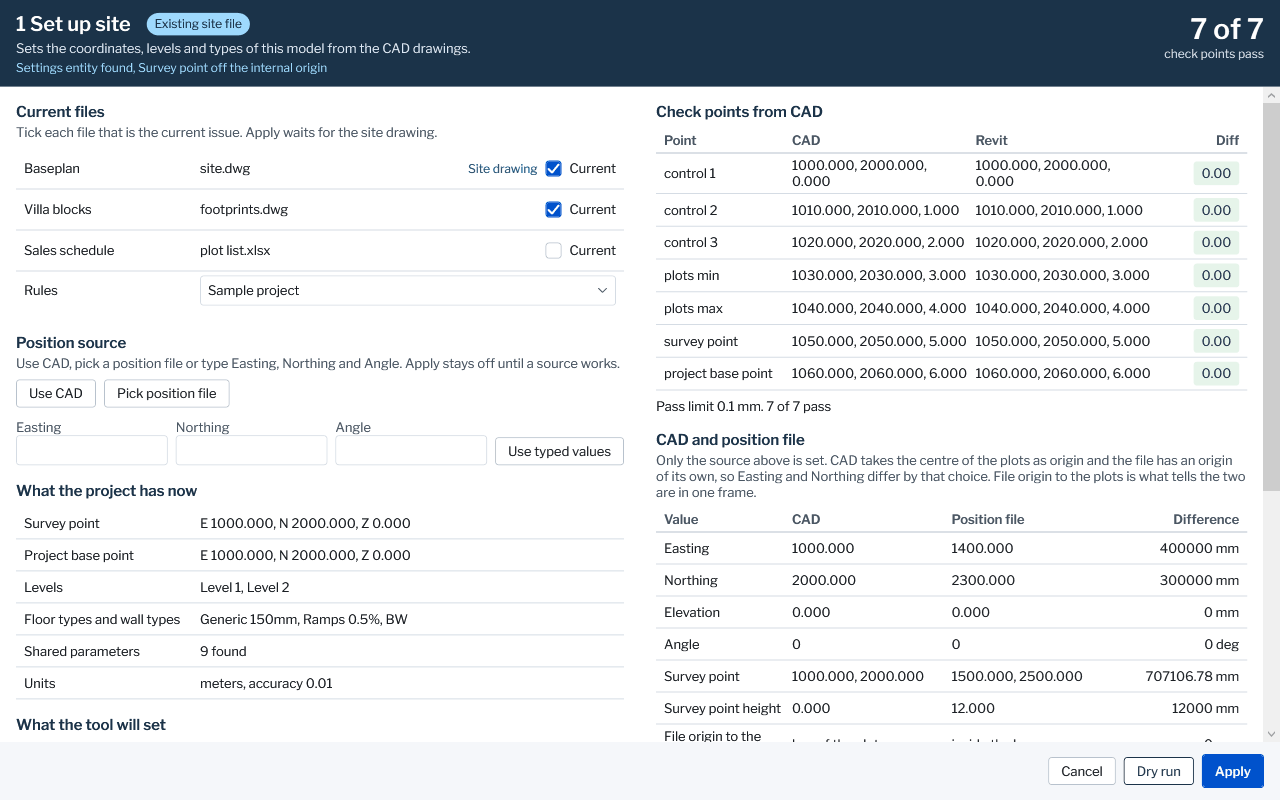
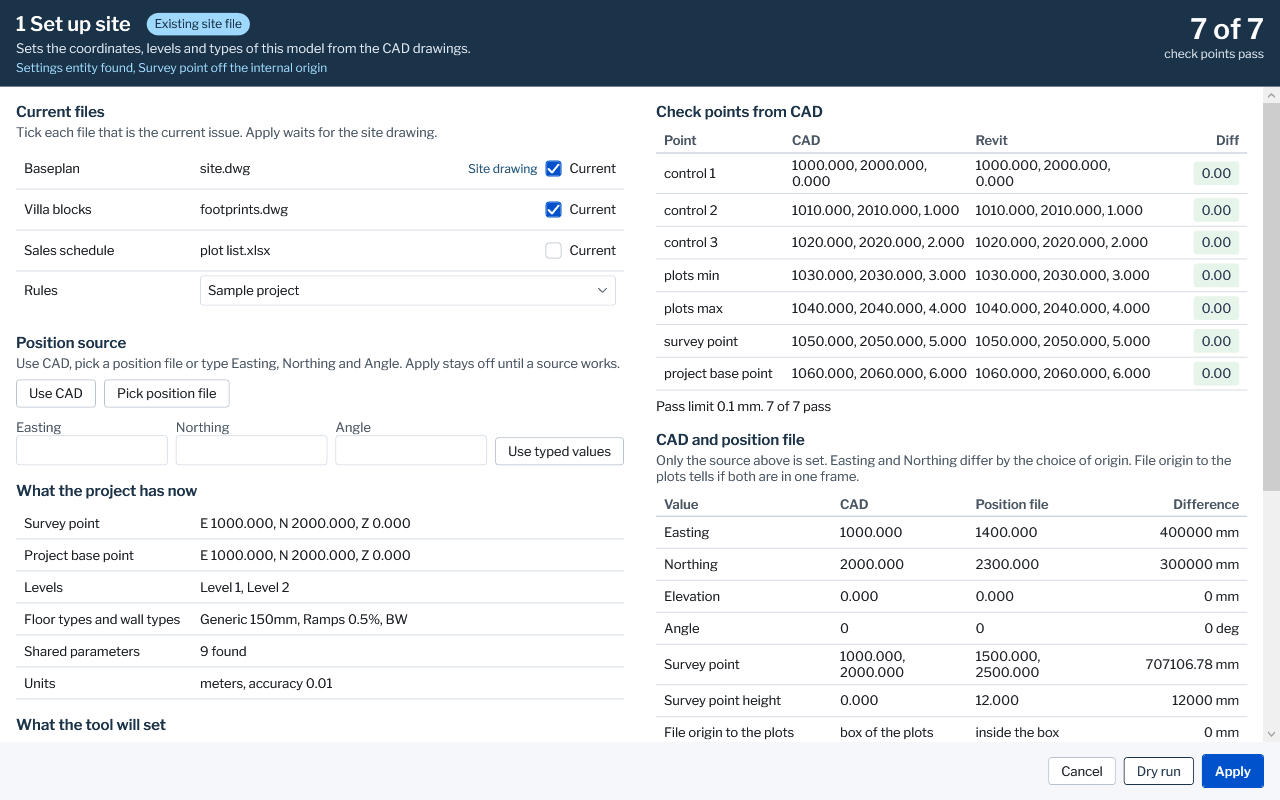
COORD-3NOV-A: help by source, last row fits, reason once, check reads the held source

Changed region(s): [[0.5, 0.5625, 0.9688, 0.9375], [0.75, 0.8125, 0.8438, 0.9375]]

diff --git a/dotnet/SiteAdaptation.AddIn/SetUpSite/SetUpSiteWindow.xaml b/dotnet/SiteAdaptation.AddIn/SetUpSite/SetUpSiteWindow.xaml
@@ -192,7 +192,7 @@
           <!-- R441, step 0 gate: the files of the setup each with a tick Current, and the Rules dropdown. Apply waits for the site drawing -->
           <StackPanel Margin="{StaticResource SA.Gap.Bottom16}" Visibility="{Binding CurrentShown, Converter={StaticResource Shown}}">
             <TextBlock Style="{StaticResource SA.Pane.Section}" Text="{x:Static set:SetUpSiteText.CurrentTitle}" />
-            <TextBlock Style="{StaticResource SA.Pane.Help}" Text="{x:Static set:SetUpSiteText.CurrentHelp}" />
+            <TextBlock Style="{StaticResource SA.Pane.Help}" Text="{Binding CurrentHelpLine}" />
             <TextBlock Style="{StaticResource SA.Pane.Help}" Foreground="{StaticResource SA.Warn}" Text="{x:Static set:SetUpSiteText.NoSiteDrawing}"
                        Visibility="{Binding NoSiteShown, Converter={StaticResource Shown}}" />
             <ItemsControl Margin="{StaticResource SA.Gap.Top8}" ItemsSource="{Binding CurrentFiles}">
@@ -304,7 +304,7 @@
             <Border Margin="{StaticResource SA.Gap.Top8}" Padding="{StaticResource SA.Pad.Cell}" BorderBrush="{StaticResource SA.BorderStrong}" BorderThickness="{StaticResource SA.Line.Under}">
               <Grid>
                 <Grid.ColumnDefinitions>
-                  <ColumnDefinition Width="{StaticResource SA.Grid.CheckPoint}" />
+                  <ColumnDefinition Width="{StaticResource SA.Grid.SetUpLabel}" />
                   <ColumnDefinition Width="*" />
                   <ColumnDefinition Width="*" />
                   <ColumnDefinition Width="{StaticResource SA.Grid.CheckPoint}" />
@@ -321,7 +321,7 @@
                   <Border MinHeight="{StaticResource SA.Size.Row}" Padding="{StaticResource SA.Pad.Cell}" BorderBrush="{StaticResource SA.Border}" BorderThickness="{StaticResource SA.Line.Under}">
                     <Grid>
                       <Grid.ColumnDefinitions>
-                        <ColumnDefinition Width="{StaticResource SA.Grid.CheckPoint}" />
+                        <ColumnDefinition Width="{StaticResource SA.Grid.SetUpLabel}" />
                         <ColumnDefinition Width="*" />
                         <ColumnDefinition Width="*" />
                         <ColumnDefinition Width="{StaticResource SA.Grid.CheckPoint}" />

diff --git a/dotnet/SiteAdaptation.Tests/R412_NewProjectCheckTests.cs b/dotnet/SiteAdaptation.Tests/R412_NewProjectCheckTests.cs
@@ -194,6 +194,35 @@ namespace SiteAdaptation.Tests
             Assert.Equal("Inputs opened: 8, none changed", text[text.Length - 2]);
         }
 
+        // R511. The source the project holds decides, not the default of a new project in config, so a past job with its position file still gets the line. The same cases in the Python
+        private CheckLine PositionOf(string source, string file = null)
+        {
+            return NewProjectCheck.Check(Path.Combine(config, "project.json"), Path.Combine(config, "rules.json"), Path.Combine(config, "prototype_offsets.json"), work, root, WorkerReads.CheckReaders(), source, file)
+                .Lines.Single(line => line.Input == "position file");
+        }
+
+        [Fact]
+        public void R511_the_new_project_check_reads_the_source_the_project_holds()
+        {
+            Build();
+            File.Delete(Path.Combine(work, "pos.json"));
+            JObject held = JObject.Parse(File.ReadAllText(Path.Combine(config, "project.json")));
+            held["coordinates"] = new JObject { ["source"] = "positionFile", ["newProjectSource"] = "cad" };
+            File.WriteAllText(Path.Combine(config, "project.json"), held.ToString());
+
+            Assert.Equal("missing", PositionOf(null).Status);
+            Assert.Equal("missing", PositionOf("positionFile").Status);
+            Assert.Equal("ok", PositionOf("cad").Status);
+            Assert.Equal("not asked, this project takes its position from CAD", PositionOf("cad").Text);
+            Assert.Equal("not asked, this project takes its position from typed values", PositionOf("typed").Text);
+
+            held["coordinates"]["source"] = "cad";
+            File.WriteAllText(Path.Combine(config, "project.json"), held.ToString());
+            Assert.Equal("ok", PositionOf(null).Status);
+            Assert.Equal("missing", PositionOf("positionFile").Status);
+            Assert.Equal("gone.json is not there", PositionOf("positionFile", Path.Combine(work, "gone.json")).Text);
+        }
+
         [Fact]
         public void R412_an_input_that_is_not_there_is_missing_and_one_that_cannot_be_read_does_not_fit()
         {
@@ -206,11 +235,6 @@ namespace SiteAdaptation.Tests
             File.Delete(Path.Combine(root, "protos", Prototype));
             Dictionary<string, CheckLine> got = Run().Lines.ToDictionary(line => line.Input);
             Assert.Equal(new[] { "missing", "pos.json is not there" }, new[] { got["position file"].Status, got["position file"].Text });
-            // R511. A new project takes its position from CAD, the same line as the Python of R412
-            JObject held = JObject.Parse(File.ReadAllText(Path.Combine(config, "project.json")));
-            held["coordinates"] = new JObject { ["newProjectSource"] = "cad" };
-            File.WriteAllText(Path.Combine(config, "project.json"), held.ToString());
-            Assert.Equal(new[] { "ok", "not asked, a new project takes its position from CAD" }, Run().Lines.Where(line => line.Input == "position file").Select(line => new[] { line.Status, line.Text }).Single());
             Assert.Equal(new[] { "does not fit", "prototype_offsets.json cannot be read as a JSON object" }, new[] { got["villa offsets"].Status, got["villa offsets"].Text });
             Assert.Equal(new[] { "does not fit", "a.xlsx cannot be read as a workbook" }, new[] { got["Excel dlus dataBook.rev9.dlus"].Status, got["Excel dlus dataBook.rev9.dlus"].Text });
             Assert.Equal(new[] { "missing", "s1.xlsx is not there" }, new[] { got["Schedule N1"].Status, got["Schedule N1"].Text });
@@ -300,8 +324,6 @@ namespace SiteAdaptation.Tests
                 }
             }
             merged["addin"]["position"]["file"] = Path.Combine(work, "pos.json");
-            // The made up project asks for its file, the test of R511 says it does not
-            ((JObject)merged["coordinates"]).Remove("newProjectSource");
             merged["addin"]["readData"]["dataBookFolder"] = Path.Combine(work, "data_book");
             merged["addin"]["workerTimeLimitS"] = JObject.Parse(File.ReadAllText(WorkerRunTests.RepoConfig()))["addin"]["workerTimeLimitS"];
             File.WriteAllText(Path.Combine(config, "project.json"), merged.ToString());

diff --git a/python/new_project_check.py b/python/new_project_check.py
@@ -138,13 +138,16 @@ def header_texts(book, sheet, count):
     return rows
 
 
-def position_line(settings, run):
+def position_line(settings, run, coordinate_source=None, position_file=None):
     name = "position file"
-    # R511. A new project takes its position from CAD and the file is only a check, so its absence is no fault
-    if get(settings, "coordinates.newProjectSource") == "cad":
-        return line(name, OK, "not asked, a new project takes its position from CAD")
+    # R511. The source the project holds, else coordinates.source of config, never the default of a new project, so a past job with its position file still gets its line
+    source = coordinate_source if coordinate_source is not None else get(settings, "coordinates.source")
+    if source == "cad":
+        return line(name, OK, "not asked, this project takes its position from CAD")
+    if source == "typed":
+        return line(name, OK, "not asked, this project takes its position from typed values")
     block = get(settings, "addin.position")
-    path = block.get("file") if isinstance(block, dict) else None
+    path = position_file if position_file is not None else (block.get("file") if isinstance(block, dict) else None)
     if not isinstance(path, str) or not path.lower().endswith(".json"):
         return line(name, DOES_NOT_FIT, "config names no .json file in addin.position.file")
     path = Path(path)
@@ -435,7 +438,7 @@ def text_of(report):
     return "\n".join(out) + "\n"
 
 
-def check(config_path, rules_path, offsets_path, work_root, input_root=None):
+def check(config_path, rules_path, offsets_path, work_root, input_root=None, coordinate_source=None, position_file=None):
     """The report of the check with the lines, the counts and the inputs opened with their marks, the paths of those inputs and the input
     root. The inputs are marked before their first read and again at the end, a change raises input_guard.InputChanged."""
     values = project_profile.read_object(config_path)
@@ -451,7 +454,7 @@ def check(config_path, rules_path, offsets_path, work_root, input_root=None):
     run.opened(rules_path)
     folder = prototype_folder(settings, root)
     work = data_book_work(settings, work_root)
-    lines = [position_line(settings, run), parameter_line(config_path, settings, rules, run), offsets_line(settings, rules, offsets_path, run),
+    lines = [position_line(settings, run, coordinate_source, position_file), parameter_line(config_path, settings, rules, run), offsets_line(settings, rules, offsets_path, run),
              hands_line(rules, folder), prototype_line(rules, folder)]
     lines += [excel_line(settings, block, run, work) for block in EXCEL_BLOCKS]
     lines += schedule_lines(settings, run, root)
@@ -497,13 +500,15 @@ def main(argv=None):
     parser.add_argument("--offsets", default=None, help="the offsets file, default prototype_offsets.json beside the config")
     parser.add_argument("--work-root", default=None, help="default is the work root of this machine (R372)")
     parser.add_argument("--out", required=True, help="the output folder, the only place written")
+    parser.add_argument("--coordinate-source", default=None, help="the site source the settings of the project hold, default coordinates.source of config (R511)")
+    parser.add_argument("--position-file", default=None, help="the position file the settings of the project hold, default addin.position.file of config (R511)")
     args = parser.parse_args(argv)
     config = Path(args.config)
     rules = Path(args.rules) if args.rules else project_profile.profile_path(project_profile.load_profile(config))
     offsets = Path(args.offsets) if args.offsets else config.parent / "prototype_offsets.json"
     root = args.work_root or project_profile.work_root()
     try:
-        report, paths, input_root = check(config, rules, offsets, root)
+        report, paths, input_root = check(config, rules, offsets, root, coordinate_source=args.coordinate_source, position_file=args.position_file)
         write(report, args.out, paths, input_root)
     except (CheckError, project_profile.ProfileError, input_guard.InputChanged) as error:
         print("new project check failed: %s" % error, file=sys.stderr)

diff --git a/dotnet/SiteAdaptation.Common/Check/NewProjectCheck.cs b/dotnet/SiteAdaptation.Common/Check/NewProjectCheck.cs
@@ -104,7 +104,8 @@ namespace SiteAdaptation.Common
         public const string Ok = "ok";
         public const string Missing = "missing";
         public const string DoesNotFit = "does not fit";
-        public const string PositionFileNotAsked = "not asked, a new project takes its position from CAD";
+        public const string PositionFromCad = "not asked, this project takes its position from CAD";
+        public const string PositionTyped = "not asked, this project takes its position from typed values";
         public const string ConfigRole = "config";
         public const string RulesRole = "rules";
         public const string OffsetsRole = "offsets";
@@ -263,15 +264,20 @@ namespace SiteAdaptation.Common
             }
         }
 
-        private static CheckLine PositionLine(JObject settings, Run run)
+        // R511. The source the project holds, else coordinates.source of config, never the default of a new project, so a past job with its position file still gets its line
+        private static CheckLine PositionLine(JObject settings, Run run, string coordinateSource, string positionFile)
         {
             const string name = "position file";
-            // R511. A new project takes its position from CAD and the file is only a check, so its absence is no fault
-            if (settings["coordinates"]?["newProjectSource"]?.Type == JTokenType.String && (string)settings["coordinates"]["newProjectSource"] == SetUp.CoordinateSettings.FromCadSource)
+            string source = coordinateSource ?? SetUp.SiteSources.OfConfig(settings);
+            if (source == SetUp.SiteSources.Cad)
             {
-                return Line(name, Ok, PositionFileNotAsked);
+                return Line(name, Ok, PositionFromCad);
             }
-            string file = Str(settings, "addin.position.file", run.WorkRoot);
+            if (source == SetUp.SiteSources.Typed)
+            {
+                return Line(name, Ok, PositionTyped);
+            }
+            string file = positionFile ?? Str(settings, "addin.position.file", run.WorkRoot);
             if (file == null || !file.ToLowerInvariant().EndsWith(".json", StringComparison.Ordinal))
             {
                 return Line(name, DoesNotFit, "config names no .json file in addin.position.file");
@@ -686,7 +692,7 @@ namespace SiteAdaptation.Common
         }
 
         // The report of the check. The inputs are marked before their first read and again at the end, a change throws
-        public static NewProjectReport Check(string configPath, string rulesPath, string offsetsPath, string workRoot, string inputRoot, NewProjectReaders readers)
+        public static NewProjectReport Check(string configPath, string rulesPath, string offsetsPath, string workRoot, string inputRoot, NewProjectReaders readers, string coordinateSource = null, string positionFile = null)
         {
             var settings = JObject.Parse(File.ReadAllText(configPath).TrimStart(''));
             JObject rules = null;
@@ -715,7 +721,7 @@ namespace SiteAdaptation.Common
             run.Opened(rulesPath);
             string folder = PrototypeFolder(settings, root);
             string work = DataBookWork(settings, workRoot);
-            var lines = new List<CheckLine> { PositionLine(settings, run), ParameterLine(configPath, settings, rules, run), OffsetsLine(settings, rules, offsetsPath, run), HandsLine(rules, folder), PrototypeLine(rules, folder) };
+            var lines = new List<CheckLine> { PositionLine(settings, run, coordinateSource, positionFile), ParameterLine(configPath, settings, rules, run), OffsetsLine(settings, rules, offsetsPath, run), HandsLine(rules, folder), PrototypeLine(rules, folder) };
             lines.AddRange(ExcelBlocks.Select(block => ExcelLine(settings, block, run, work)));
             lines.AddRange(ScheduleLines(settings, run, root));
             lines.Add(PdfLine(settings, run, work));

diff --git a/dotnet/SiteAdaptation.Tests/SetUpSiteTests.cs b/dotnet/SiteAdaptation.Tests/SetUpSiteTests.cs
@@ -45,6 +45,79 @@ namespace SiteAdaptation.Tests
             Assert.Equal(!opens, model.NoSiteShown);
         }
 
+        // The help of the section Current files says what the gate does, it waits for the site drawing only under CAD
+        [Theory]
+        [InlineData("cad", true)]
+        [InlineData(null, true)]
+        [InlineData("positionFile", false)]
+        [InlineData("typed", false)]
+        public void R513_the_help_of_current_files_names_the_site_drawing_only_while_the_gate_asks_for_it(string source, bool names)
+        {
+            SetUpSiteView view = Shots.SampleSetUpView(true, true);
+            view.PositionSource = source;
+            var model = new SetUpSiteViewModel(view);
+            Assert.StartsWith("Tick each file that is the current issue.", model.CurrentHelpLine);
+            Assert.Equal(names, model.CurrentHelpLine.Contains("site drawing"));
+        }
+
+        // The reason stands once, beside the ways out of it, and still keeps Apply off
+        [Fact]
+        public void R513_the_reason_of_no_source_shows_in_the_section_and_not_again_in_the_stops()
+        {
+            SetUpSiteView view = Shots.SampleNoSourceView();
+            var model = new SetUpSiteViewModel(view);
+            Assert.True(model.NoSourceShown);
+            Assert.False(model.StopsShown);
+            Assert.Equal("", model.StopsLine);
+            Assert.False(model.CanApply);
+
+            view.Stops.Add("Another stop");
+            model = new SetUpSiteViewModel(view);
+            Assert.Equal("Another stop", model.StopsLine);
+
+            // A conflict joins its stops into the one line, each of them already said
+            SetUpSiteView conflict = Shots.SampleSetUpView(true, true);
+            conflict.Stops = new List<string> { "First stop", "Second stop" };
+            conflict.NoSourceLine = "First stop. Second stop";
+            model = new SetUpSiteViewModel(conflict);
+            Assert.False(model.StopsShown);
+            Assert.False(model.CanApply);
+        }
+
+        // R512. setup-site.png, the last row of the section on one line and inside the part that shows
+        [Fact]
+        public void R512_the_last_row_of_cad_and_position_file_stands_on_one_line_inside_the_scroll_area()
+        {
+            OnSta(() =>
+            {
+                SetUpSiteWindow window = Shots.LaidOutSetUp(Shots.SampleSetUpView(true, true));
+                var body = (FrameworkElement)window.Content;
+                ScrollViewer scroll = Below<ScrollViewer>(body).First();
+                TextBlock row = Below<TextBlock>(body).Single(text => text.Text == SetUpTexts.FileOriginToPlots);
+                TextBlock line = Below<TextBlock>(body).First(text => text.Text == SetUpTexts.Northing);
+
+                Assert.Equal(line.ActualHeight, row.ActualHeight);
+                double bottom = row.TransformToAncestor(scroll).Transform(new Point(0, row.ActualHeight)).Y;
+                Assert.True(bottom <= scroll.ViewportHeight, bottom + " of " + scroll.ViewportHeight);
+            });
+        }
+
+        private static IEnumerable<T> Below<T>(DependencyObject parent) where T : DependencyObject
+        {
+            for (int at = 0; at < VisualTreeHelper.GetChildrenCount(parent); at++)
+            {
+                DependencyObject child = VisualTreeHelper.GetChild(parent, at);
+                if (child is T found)
+                {
+                    yield return found;
+                }
+                foreach (T deeper in Below<T>(child))
+                {
+                    yield return deeper;
+                }
+            }
+        }
+
         // Q422. The words of the window follow the source
         [Theory]
         [InlineData("cad", "from the CAD drawings", "Check points from CAD", "CAD")]

diff --git a/python/tests/test_r412_new_project_check.py b/python/tests/test_r412_new_project_check.py
@@ -121,18 +121,36 @@ def test_r412_an_input_that_is_not_there_is_missing_and_one_that_cannot_be_read_
     report = new_project_check.check(config / "project.json", config / "rules.json", config / "prototype_offsets.json", work, root)[0]
     got = {each["input"]: (each["status"], each["text"]) for each in report["lines"]}
     assert got["position file"] == ("missing", "pos.json is not there")
-    # R511. A new project takes its position from CAD, the same line as the C# of R412
-    settings = json.loads((config / "project.json").read_text(encoding="utf-8"))
-    settings["coordinates"] = {"newProjectSource": "cad"}
-    (config / "project.json").write_text(json.dumps(settings), encoding="utf-8")
-    again = new_project_check.check(config / "project.json", config / "rules.json", config / "prototype_offsets.json", work, root)[0]
-    assert {each["input"]: (each["status"], each["text"]) for each in again["lines"]}["position file"] == ("ok", "not asked, a new project takes its position from CAD")
     assert got["villa offsets"] == ("does not fit", "prototype_offsets.json cannot be read as a JSON object")
     assert got["Excel dlus dataBook.rev9.dlus"] == ("does not fit", "a.xlsx cannot be read as a workbook")
     assert got["Schedule N1"] == ("missing", "s1.xlsx is not there")
     assert got["location plan PDF"] == ("does not fit", "plan.pdf cannot be read as a PDF")
     assert got["prototype files"][1] == "the prototype folder protos holds no single file for the unit codes: C10, VL3, TH1"
     assert new_project_check.text_of(report).count("missing.") == 2
+
+
+def test_r511_the_new_project_check_reads_the_source_the_project_holds(tmp_path):
+    """The source the project holds decides, not the default of a new project in config, so a past job with its position file still gets the line. The same cases as the C#."""
+    work, root, config = build(tmp_path)
+    (work / "pos.json").unlink()
+    settings = json.loads((config / "project.json").read_text(encoding="utf-8"))
+    settings["coordinates"] = {"source": "positionFile", "newProjectSource": "cad"}
+    (config / "project.json").write_text(json.dumps(settings), encoding="utf-8")
+
+    def position_of(source, file=None):
+        report = new_project_check.check(config / "project.json", config / "rules.json", config / "prototype_offsets.json", work, root, coordinate_source=source, position_file=file)[0]
+        return {each["input"]: (each["status"], each["text"]) for each in report["lines"]}["position file"]
+
+    assert position_of(None)[0] == "missing"
+    assert position_of("positionFile")[0] == "missing"
+    assert position_of("cad") == ("ok", "not asked, this project takes its position from CAD")
+    assert position_of("typed") == ("ok", "not asked, this project takes its position from typed values")
+
+    settings["coordinates"]["source"] = "cad"
+    (config / "project.json").write_text(json.dumps(settings), encoding="utf-8")
+    assert position_of(None)[0] == "ok"
+    assert position_of("positionFile")[0] == "missing"
+    assert position_of("positionFile", str(work / "gone.json"))[1] == "gone.json is not there"
 
 
 def test_r412_a_position_file_with_a_missing_point_or_level_does_not_fit_and_names_what_is_wrong(tmp_path):

diff --git a/dotnet/SiteAdaptation.AddIn/SetUpSite/SetUpSiteText.cs b/dotnet/SiteAdaptation.AddIn/SetUpSite/SetUpSiteText.cs
@@ -56,6 +56,7 @@ namespace SiteAdaptation.AddIn.SetUpSite
         public const string TypedToPlots = "Typed origin to the plots";
         public const string SourceTitle = "Position source";
         public const string SourceHelp = "Use CAD, pick a position file or type Easting, Northing and Angle. Apply stays off until a source works.";
+        public const string CurrentHelpOther = "Tick each file that is the current issue.";
         public const string CheckTitleCad = "Check points from CAD";
         public const string CheckTitleFile = "Check points from the position file";
         public const string CheckTitleTyped = "Check points from the typed values";
@@ -69,7 +70,7 @@ namespace SiteAdaptation.AddIn.SetUpSite
         public const string Angle = "Angle";
         public const string UseTyped = "Use typed values";
         public const string CompareTitle = "CAD and position file";
-        public const string CompareHelp = "Only the source above is set. CAD takes the centre of the plots as origin and the file has an origin of its own, so Easting and Northing differ by that choice. File origin to the plots is what tells the two are in one frame.";
+        public const string CompareHelp = "Only the source above is set. Easting and Northing differ by the choice of origin. File origin to the plots tells if both are in one frame.";
         public const string CompareValue = "Value";
         public const string CompareCad = "CAD";
         public const string CompareFile = "Position file";

diff --git a/dotnet/SiteAdaptation.AddIn/SetUpSite/SetUpSiteViewModel.cs b/dotnet/SiteAdaptation.AddIn/SetUpSite/SetUpSiteViewModel.cs
@@ -45,6 +45,9 @@ namespace SiteAdaptation.AddIn.SetUpSite
 
         public bool NoSourceShown => NoSourceLine.Length > 0;
 
+        // R441, R513. The help says what the gate does, it waits for the site drawing only while CAD is or may be the source
+        public string CurrentHelpLine => DrawingAsked ? SetUpSiteText.CurrentHelp : SetUpSiteText.CurrentHelpOther;
+
         // R512. Why the check against the position file did not run, as Common gives it
         public string CheckLine => view.CheckLine ?? "";
 
@@ -267,7 +270,9 @@ namespace SiteAdaptation.AddIn.SetUpSite
 
         private string StopsText()
         {
-            return string.Join(Environment.NewLine, view.Stops.Concat(problem.Length > 0 ? new[] { problem } : new string[0]));
+            // R513. Why no source works stands in the section Position source beside the ways out of it, so it is not said again here. It still keeps Apply off through view.Stops
+            IEnumerable<string> others = view.Stops.Where(stop => string.IsNullOrEmpty(view.NoSourceLine) || !view.NoSourceLine.Contains(stop));
+            return string.Join(Environment.NewLine, others.Concat(problem.Length > 0 ? new[] { problem } : new string[0]));
         }
 
         private List<SetUpRowViewModel> Ordered(List<SetUpRow> rows, string[] order, bool will)

diff --git a/dotnet/SiteAdaptation.Tests/UiLabelTests.cs b/dotnet/SiteAdaptation.Tests/UiLabelTests.cs
@@ -188,8 +188,8 @@ namespace SiteAdaptation.Tests
             // KNOWN-3NOV-A added 2: Front edge by hand and the past value of a front edge (R482, Q376)
             // and the folder of the override list (Q397)
             // R510 to R514 added 14: the row Position from, the section Position source and the section CAD and position file of Set up site
-            // COORD-3NOV-A review added 10: the words that follow the source, the title of the file dialog, the rows Place and Typed origin to the plots
-            Assert.Equal(300, chosen);
+            // COORD-3NOV-A review added 11: the words that follow the source, the title of the file dialog, the rows Place and Typed origin to the plots, the help of Current files
+            Assert.Equal(301, chosen);
             Assert.True(matched > 100, matched.ToString());
         }
 

diff --git a/dotnet/CadReader/WorkerReads.cs b/dotnet/CadReader/WorkerReads.cs
@@ -804,7 +804,7 @@ namespace CadReader
             NewProjectReport report;
             try
             {
-                report = NewProjectCheck.Check(config, rules, offsets, WorkRoot.OfThisMachine(), null, CheckReaders());
+                report = NewProjectCheck.Check(config, rules, offsets, WorkRoot.OfThisMachine(), null, CheckReaders(), request.CoordinateSource, request.PositionFile);
                 NewProjectCheck.KeepApart(request.OutputFolder, report.Paths, report.InputRoot);
             }
             catch (InvalidDataException refused)

diff --git a/dotnet/SiteAdaptation.Common/Worker/WorkerContract.cs b/dotnet/SiteAdaptation.Common/Worker/WorkerContract.cs
@@ -36,6 +36,10 @@ namespace SiteAdaptation.Common
         // request of a project that holds none stays byte-equal
         public string ProjectMode { get; set; }
 
+        // R511. The site source and the position file the settings of the project hold, for the new project check. Null is left out of the JSON, as for the mode
+        public string CoordinateSource { get; set; }
+        public string PositionFile { get; set; }
+
         public WorkerScope Scope { get; set; }
         public string OutputFolder { get; set; }
 

diff --git a/docs/rules/13-site-coords-r454-up.md b/docs/rules/13-site-coords-r454-up.md
@@ -6,8 +6,8 @@ Lane B FIX-1NOV-B task 3 (1 Nov 2026). The ids R454 to R456 are of this task. Ev
 - **R455 Site position from CAD.** Input: the plot outlines of the baseplan read by crs, the EPSG code of R454 and coordinates.originRoundM, angleToTrueNorthDeg, originElevationM, positionName and placeName. Output: the shared origin at the centre of the box of every plot outline rounded to originRoundM (Q326), the internal origin at it with shared height 0, the survey point and the project base point on the internal origin at originElevationM, internal and shared, the relation of the past position file (Q327), true north angleToTrueNorthDeg, the latitude and longitude of the origin by UtmMath on WGS 84, and the named position positionName made active with the site location set before SetProjectPosition. The baseplan states no system and takes the one of R454, so a box of the plot outlines outside coordinates.utmEastM, and utmNorthM north of the equator or utmSouthNorthM south of it, stops button 1 with one plain line, the baseplan likely in drawing coordinates or another system. coordinates.source positionFile keeps the position file of addin.position and reads no other key of the block, the levels and units come from the position file under both sources (Q328). SetProjectPosition takes the survey point internal to (-E,-N) on a new project (probe of FIX-1NOV-B), so a position change moves the survey point and the project base point too, each by the gap read after it. Common/UtmMath.cs ZoneOf and ToLatLon, Common/SetUp/SitePosition.cs SiteFromCad.FromCad and Load called by SetUpRun.Preview, Common/SetUp/CoordinateSystems.cs CoordinateSystems.OutsideZone called by Load, SetUpTarget.From taking the CAD site, SetUpPlanner.Changes and ReadBack holding the location, AddIn/Revit/RevitSiteDocument.cs SetLocation, SetNamedPosition and SetSiteLocation called by SetUpRun.Apply. Tests: R454_SiteCoordinatesTests.cs, SetUpSiteLogicTests.cs.
 - **R456 Three CAD control points.** Input: the plot outlines of the baseplan read, coordinates.controlPointCount and controlPointLimitMm, the position of R455 and the shared point Revit gives for an internal point, by the transform of the position in a dry run and by ProjectLocation after Apply. Output: the south west corner, the least east plus north, then each next corner the one whose nearest chosen corner is the farthest, a tie to the least north, the least east, then the plot name (Q329), each a row of the check points of the Set up site view with its CAD and Revit shared point and the gap in mm, passing at controlPointLimitMm. A corner two plots share counts once, fewer distinct corners than controlPointCount stop button 1 with one plain line. The gap as measured is held to the limit, the row shows it rounded. What the check proves: Revit's shared coordinates give back the CAD coordinates of the points through the position the tool set, so a wrong angle sign, a unit slip or a Revit transform after Apply that differs from the one planned shows as a gap. What it cannot prove: a wrong origin or a wrongly stated system, since the points and the origin both come from the same CAD, so both would be wrong together and the gap stays 0. Common/SetUp/ControlPoints.cs Pick called by SiteFromCad.Load and Check called by SetUpPlanner.CheckPoints. Tests: R454_SiteCoordinatesTests.cs, SetUpSiteLogicTests.cs.
 - **R510 Model with no site coordinates.** Input: the SiteState of the document and coordinates.noCoordinatesLimitMm and noCoordinatesLimitDeg of config. Output: true when the project position east, north, elevation and angle and the internal and shared points of the survey point and the project base point are all zero within the limits, then the line "This model has no site coordinates." at the top of the Set up site window, nothing on a model that holds coordinates. The site location does not decide: a new project from the default metric template reads every value 0 and still holds a place with its latitude and longitude and one active location (RAN, probe of 3 Nov 2026), so a second line names that place as coming from the template, What the project has now shows no place, latitude or longitude, and under the position file, which sets no place, the row Place of What the tool will set says it stays. A config of before the keys detects nothing and runs as before. Common/SetUp/SiteSources.cs Limits called by SetUpTarget.From and SiteChoice.Start, NoCoordinates called by SetUpPlanner.View and SiteChoice.Start. Tests: R510_SiteSourceTests.cs, names R510.
-- **R511 CAD default for new projects.** Input: coordinates.newProjectSource and coordinates.source of config, the coordinateSource of the settings, whether the model is blank by R510 and whether the run can read CAD. Output: Empty project writes newProjectSource into the settings as R484 does for the mode, a source held in the settings stands over coordinates.source, typed only while the model is not blank, a blank model with none held takes CAD, and with no baseplan named it asks by R513, never staying on the position file unseen. Everything else stays on coordinates.source, so a saved past job does not move and keeps both fields null. The source goes into the record of the run inside the transaction and into the settings in memory only after the commit, where it differs from config, so a second press never moves the model back and a rolled back Apply leaves no source. The new project check of R412 does not ask for the position file when newProjectSource is cad, C# and Python alike. Under CAD a position file is only a check and a missing one stops nothing, and the levels and units come from keyRules.site of the level profile, the lowest level at 0 on the base, the steps of levelStepsM, the length accuracy of the reference key of majority.siteReference. They equal the position file the keys gave (RAN, 3 Nov 2026). Under the position file nothing changes. Common/SetUp/SiteSources.cs NewProject called by ProjectModes.TakeNewProject, Starting and SiteChoice.Start called by SetUpRun.Preview, SiteFromCad.Load taking the source, SetUpTarget.ReadRules called by SetUpTarget.From. Tests: R510_SiteSourceTests.cs, names R511.
+- **R511 CAD default for new projects.** Input: coordinates.newProjectSource and coordinates.source of config, the coordinateSource of the settings, whether the model is blank by R510 and whether the run can read CAD. Output: Empty project writes newProjectSource into the settings as R484 does for the mode, a source held in the settings stands over coordinates.source, typed only while the model is not blank, a blank model with none held takes CAD, and with no baseplan named it asks by R513, never staying on the position file unseen. Everything else stays on coordinates.source, so a saved past job does not move and keeps both fields null. The source goes into the record of the run inside the transaction and into the settings in memory only after the commit, where it differs from config, so a second press never moves the model back and a rolled back Apply leaves no source. The new project check of R412 reads the source the project holds, carried in the worker request as coordinateSource and positionFile, else coordinates.source of config, never newProjectSource, so a past job with its position file still gets its line and a project on CAD or typed values does not, C# and Python alike. Under CAD a position file is only a check and a missing one stops nothing, and the levels and units come from keyRules.site of the level profile, the lowest level at 0 on the base, the steps of levelStepsM, the length accuracy of the reference key of majority.siteReference. They equal the position file the keys gave (RAN, 3 Nov 2026). Under the position file nothing changes. Common/SetUp/SiteSources.cs NewProject called by ProjectModes.TakeNewProject, Starting and SiteChoice.Start called by SetUpRun.Preview, SiteFromCad.Load taking the source, SetUpTarget.ReadRules called by SetUpTarget.From. Tests: R510_SiteSourceTests.cs, names R511.
 - **R512 CAD and position file side by side.** Input: the CAD site and a position file that reads. Output: a section of the Set up site window with Easting, Northing, Elevation, Angle, Survey point on east and north alone and Survey point height, each with CAD, position file and the difference, in mm and for the angle in degrees, and the row File origin to the plots, how far the origin of the file lies off the box of the plot outlines, 0 mm inside it. The CAD origin is the rounded centre of the box by R455 and the file holds an origin of its own, so Easting and Northing differ by that choice alone and the last row is what tells both stand in one frame (RAN on the real file and the last crs read, the file origin inside the box). Only the chosen source is set and no difference stops the run. A position file that is missing or does not read gives one line that the check did not run and why. The pass limit of the check points stays addin.position.revitCheckPointLimitMm. Common/SetUp/SiteSources.cs Compare called by SiteChoice.Rows, called by SetUpRun.Viewed. Tests: R510_SiteSourceTests.cs, names R512.
-- **R513 No usable CAD asks the user.** Input: a CAD read with no baseplan named, no plot outline, too few corners, a worker that failed, a box outside the UTM range or a conflict of systems, a held or default position file that is gone or does not read, held typed values the model no longer gives, and a click of the window. The window always opens, only a slip in config itself fails the run. Output: why in one line in the section Position source, a stop that keeps Apply off, rows that say no source is chosen and no check points, never a silent fall back. Use CAD reads again under a run id of its own, Pick position file takes a file that reads as R353, Use typed values builds a site as R455 from Easting, Northing and Angle on coordinates.expectedEpsg, refused outside the UTM range or at an angle other than coordinates.angleToTrueNorthDeg, which a build refuses by R83. A wrong digit inside the range passes those and passes the check rows, which hold the site to itself, so where plots read the row Typed origin to the plots gives its distance to their box, off the box warns and past coordinates.typedOffBoxLimitM stops, and where none read the row says the typed values have no check. The site drawing gate of R441 asks only while the source is CAD. Each of them also moves a model that holds coordinates, and asks for a new dry run. The source and the file picked go into the settings of the run. The typed values do not, since R367 keeps every coordinate out of the settings JSON: the model holds them and a second press reads them back from it. A blank model with typed held asks again. Common/SetUp/SiteSources.cs SiteChoice.Choose called by SetUpSiteCallbacks.SourceChosen of SetUpRun.Confirm, Typing called by SiteChoice, Common/SetUp/CoordinateSystems.cs TypedOutside called by Typing, Common/SetUp/SitePosition.cs SiteFromCad.At called by FromCad and Typing, AddIn/SetUpSite/SetUpSiteSession.cs UseCad, PickPosition and UseTyped called by the window. Tests: R510_SiteSourceTests.cs, SetUpSiteTests.cs, R441_CurrentFilesTests.cs, names R513.
+- **R513 No usable CAD asks the user.** Input: a CAD read with no baseplan named, no plot outline, too few corners, a worker that failed, a box outside the UTM range or a conflict of systems, a held or default position file that is gone or does not read, held typed values the model no longer gives, and a click of the window. The window always opens, only a slip in config itself fails the run. Output: why in one line in the section Position source, a stop that keeps Apply off, rows that say no source is chosen and no check points, never a silent fall back. Use CAD reads again under a run id of its own, Pick position file takes a file that reads as R353, Use typed values builds a site as R455 from Easting, Northing and Angle on coordinates.expectedEpsg, refused outside the UTM range or at an angle other than coordinates.angleToTrueNorthDeg, which a build refuses by R83. A wrong digit inside the range passes those and passes the check rows, which hold the site to itself, so where plots read the row Typed origin to the plots gives its distance to their box, off the box warns and past coordinates.typedOffBoxLimitM stops, and where none read the row says the typed values have no check. The site drawing gate of R441 and the help line above it ask only while the source is CAD. Why no source works stands in the section Position source and not again in the stops band, and still keeps Apply off. Each of them also moves a model that holds coordinates, and asks for a new dry run. The source and the file picked go into the settings of the run. The typed values do not, since R367 keeps every coordinate out of the settings JSON: the model holds them and a second press reads them back from it. A blank model with typed held asks again. Common/SetUp/SiteSources.cs SiteChoice.Choose called by SetUpSiteCallbacks.SourceChosen of SetUpRun.Confirm, Typing called by SiteChoice, Common/SetUp/CoordinateSystems.cs TypedOutside called by Typing, Common/SetUp/SitePosition.cs SiteFromCad.At called by FromCad and Typing, AddIn/SetUpSite/SetUpSiteSession.cs UseCad, PickPosition and UseTyped called by the window. Tests: R510_SiteSourceTests.cs, SetUpSiteTests.cs, R441_CurrentFilesTests.cs, names R513.
 - **R514 Where the position came from.** Input: the source of the press. Output: SetUpTarget.PositionSource cad, positionFile or typed, the first row Position from of What the tool will set, and the key positionSource of site.json, so the pane can read it, written again when a press changes the source with nothing else to set, since StepHolds compares the source too. A site.json of before the key still agrees on its facts and counts as written under coordinates.source. The intro of the window, the head of its check points and their column follow the source. Common/SetUp/SetUpTexts.cs PositionFromText called by SetUpPlanner.WillSetRows, Common/SetUp/SetUpRun.cs SiteJson and SiteFileAgrees called by Apply. Tests: R510_SiteSourceTests.cs, names R514.
 - **R523 No move with placed content.** Input: the changes of the target, whether the model is blank by R510, and PlacedLinks, Masses and FloorsByType of SiteState, read by the Revit side with FilteredElementCollector. Output: when Apply would move the position or the survey point of a model that holds coordinates and that holds a placed link, a mass or a floor of the types of the tool, a stop with one plain line naming the three counts, Apply off, the model untouched. Moving the position moves no element (READ, AddIn/Revit/RevitSiteDocument.cs), so everything placed would stand off the site. A blank model, a model with nothing placed and a press that moves nothing do not stop. Common/SetUp/SiteSources.cs PlacedStop called by SetUpPlanner.Stops, AddIn/Revit/RevitSiteDocument.cs Read. Tests: R510_SiteSourceReviewTests.cs, names R523.
